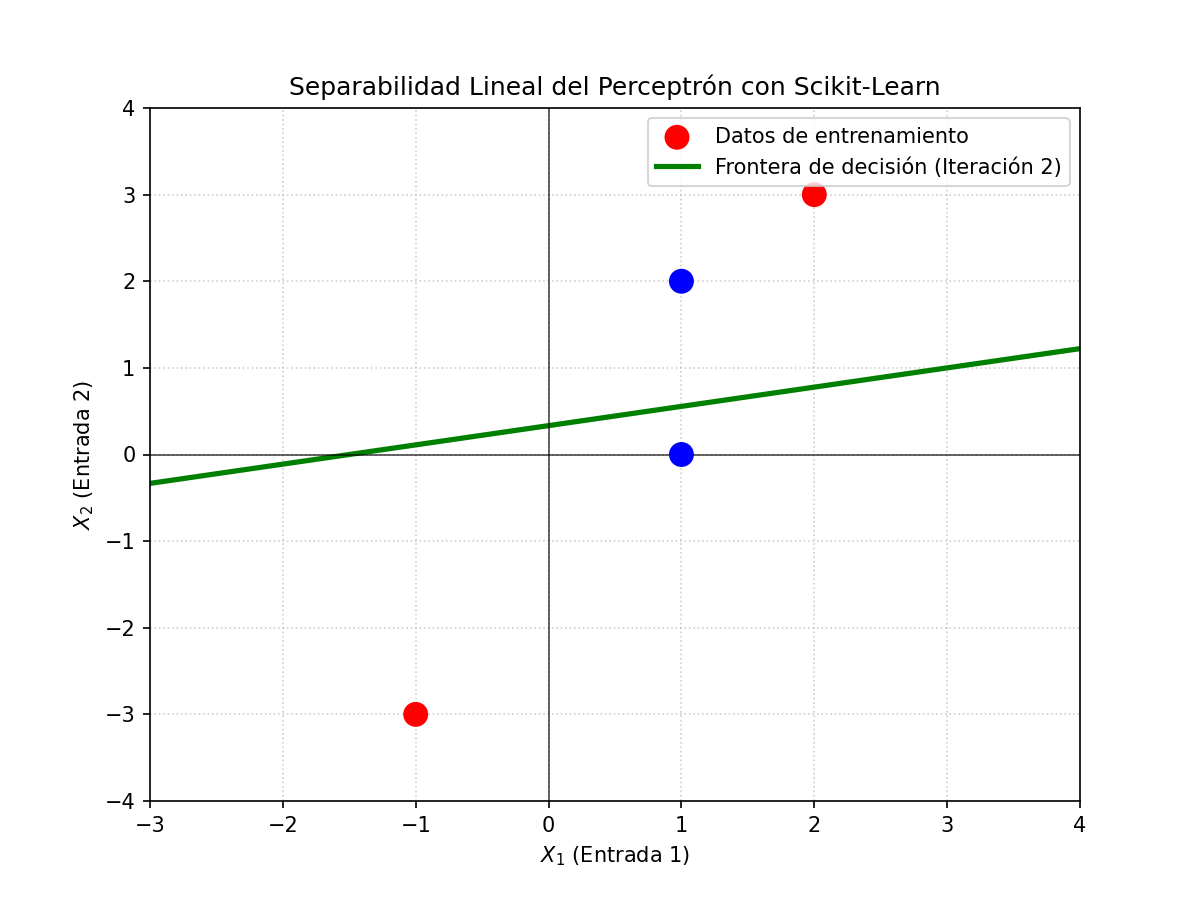
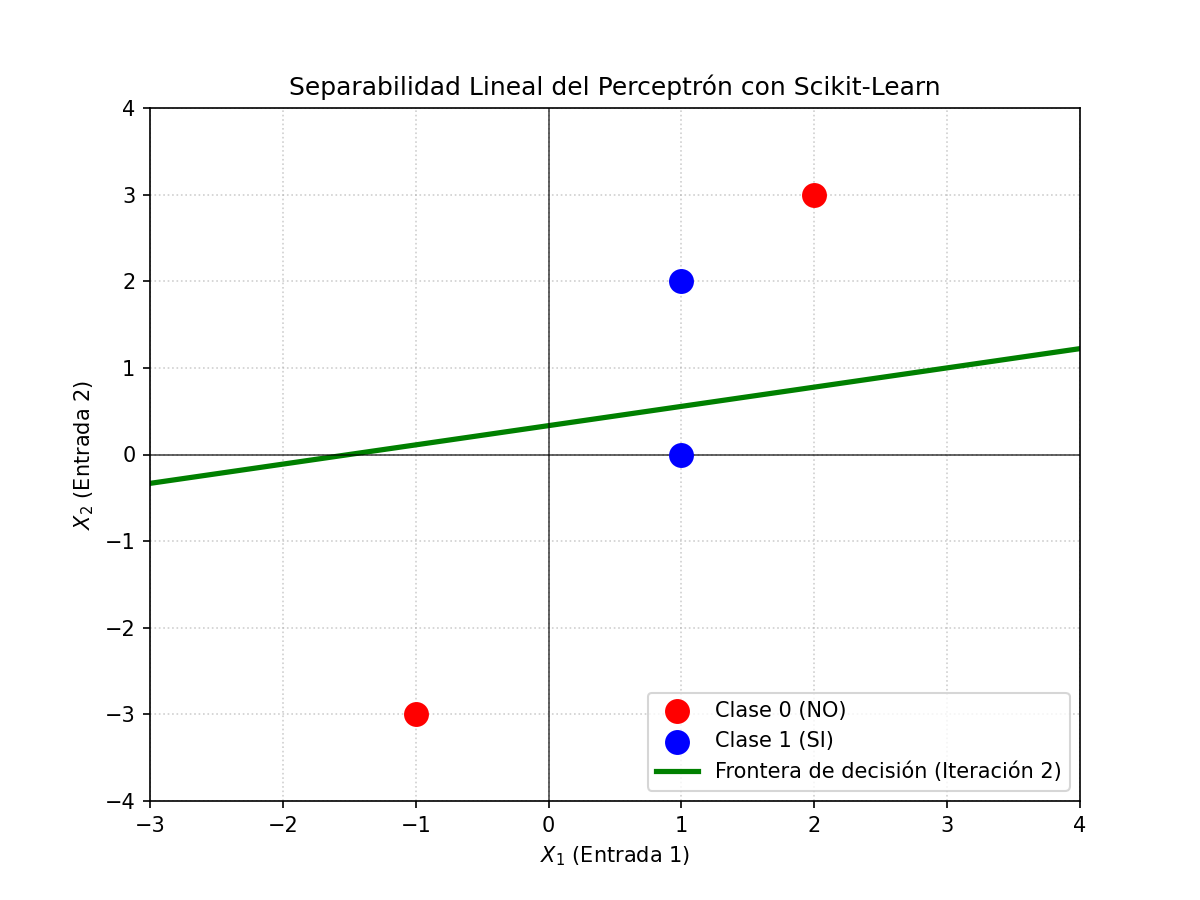
no supervisdao

Changed region(s): [[0.5242, 0.1244, 0.8942, 0.2178], [0.5242, 0.7778, 0.8942, 0.8711]]

diff --git a/Inteligencia Artifical/Segundo Proyecto/nosupervizado.py b/Inteligencia Artifical/Segundo Proyecto/nosupervizado.py
@@ -1,0 +1,133 @@
+import numpy as np
+import pandas as pd
+import matplotlib
+matplotlib.use('Agg')
+import matplotlib.pyplot as plt
+from sklearn.datasets import load_iris
+from sklearn.preprocessing import StandardScaler
+from sklearn.decomposition import PCA
+from sklearn.cluster import KMeans
+from sklearn.metrics import silhouette_score, adjusted_rand_score
+
+# --- FUNCIONES DEL PROCESO ---
+
+def cargar_y_describir_iris():
+    """Punto 11"""
+    iris = load_iris(as_frame=True)
+    X = iris.data
+    y = iris.target
+    
+    print("PUNTO 11: DESCRIPCIÓN DE VARIABLES ")
+    print(f"Cantidad de registros (filas): {X.shape[0]}")
+    print(f"Cantidad de variables (columnas): {X.shape[1]}")
+    print("Nombres de las variables:", list(X.columns))
+    print("-" * 50)
+    return X, y
+
+def estandarizar_datos(X):
+    """Punto 12"""
+    scaler = StandardScaler()
+    X_scaled = scaler.fit_transform(X)
+    # Convertimos de nuevo a DataFrame para mantener consistencia visual si fuera necesario
+    X_scaled_df = pd.DataFrame(X_scaled, columns=X.columns)
+    print("PUNTO 12: DATOS ESTANDARIZADOS")
+    print("Media de las variables transformadas (esperada ~0):\n", X_scaled_df.mean().round(2).values)
+    print("Desviación estándar (esperada ~1):\n", X_scaled_df.std().round(2).values)
+    print("-" * 50)
+    return X_scaled
+
+def aplicar_pca(X_scaled):
+    """Punto 13"""
+    # Instanciamos PCA fijando una semilla aleatoria por reproducibilidad
+    pca = PCA(n_components=2, random_state=42)
+    X_pca = pca.fit_transform(X_scaled)
+    
+    varianza_explicada = pca.explained_variance_ratio_
+    print(" PUNTO 13: ANÁLISIS DE PCA")
+    print(f"Varianza explicada por la Componente 1: {varianza_explicada[0]*100:.2f}%")
+    print(f"Varianza explicada por la Componente 2: {varianza_explicada[1]*100:.2f}%")
+    print(f"Varianza acumulada total: {np.sum(varianza_explicada)*100:.2f}%")
+    print("-" * 50)
+    return X_pca
+
+def analizar_kmeans_metodo_codo_y_silhouette(X_scaled):
+    """Puntos 14, 15 y 16"""
+    inercias = []
+    siluetas = []
+    valores_k = range(2, 8) # K entre 2 y 7 (el límite superior en range es exclusivo)
+    
+    print("=== PUNTOS 14, 15 Y 16: ENTRENAMIENTO KMEANS ===")
+    for k in valores_k:
+        # Usamos n_init='auto' por compatibilidad y fijamos random_state
+        kmeans = KMeans(n_clusters=k, n_init='auto', random_state=42)
+        kmeans.fit(X_scaled)
+        
+        #Inercia (Punto 15)
+        inercias.append(kmeans.inertia_)
+        
+        #Coeficiente de Silhouette (Punto 16)
+        score_silueta = silhouette_score(X_scaled, kmeans.labels_)
+        siluetas.append(score_silueta)
+        
+        print(f"Para K = {k} -> Inercia: {kmeans.inertia_:.2f} | Coeficiente Silhouette: {score_silueta:.4f}")
+    print("-" * 50)
+    
+    # --- GRÁFICO 1: MÉTODO DEL CODO (INERCIA) ---
+    fig, ax1 = plt.subplots(figsize=(8, 5))
+    ax1.plot(valores_k, inercias, marker='o', color='tab:blue', linewidth=2, label='Inercia')
+    ax1.set_xlabel('Número de Clusters (K)', fontsize=12)
+    ax1.set_ylabel('Inercia (Suma de errores cuadrados)', color='tab:blue', fontsize=12)
+    ax1.tick_params(axis='y', labelcolor='tab:blue')
+    ax1.set_title('Evaluacion de Metricas Internas para KMeans', fontsize=14, fontweight='bold')
+    
+    # --- GRÁFICO 2: COEFIENTE DE SILHOUETTE (EJE DOBLE) ---
+    ax2 = ax1.twinx()  # Comparten el mismo eje X
+    ax2.plot(valores_k, siluetas, marker='s', color='tab:orange', linewidth=2, linestyle='--', label='Silhouette')
+    ax2.set_ylabel('Coeficiente de Silhouette', color='tab:orange', fontsize=12)
+    ax2.tick_params(axis='y', labelcolor='tab:orange')
+    
+    plt.tight_layout()
+    plt.savefig('analisis_metricas_internas.png', dpi=300)
+    plt.close()
+
+def visualizar_clusters_y_clases_reales(X_pca, X_scaled, y_real):
+    """Punto 17"""
+    # Elegimos K=3 basándonos en la morfología biológica del dataset y los análisis métricos
+    k_elegido = 3
+    kmeans_final = KMeans(n_clusters=k_elegido, n_init='auto', random_state=42)
+    clusters_predichos = kmeans_final.fit(X_scaled)
+    labels_pred = clusters_predichos.labels_
+    
+    fig, (ax1, ax2) = plt.subplots(1, 2, figsize=(14, 6))
+    
+    # Gráfico Izquierdo: Clusters identificados por KMeans (No Supervisado)
+    scatter1 = ax1.scatter(X_pca[:, 0], X_pca[:, 1], c=labels_pred, cmap='viridis', s=60, alpha=0.8)
+    ax1.set_title(f'Agrupamiento No Supervisado (KMeans K={k_elegido})', fontsize=12, fontweight='bold')
+    ax1.set_xlabel('Componente Principal 1')
+    ax1.set_ylabel('Componente Principal 2')
+    ax1.grid(True, linestyle='--', alpha=0.5)
+    
+    # Gráfico Derecho: Especies Reales del dataset Iris (Supervisado - Solo para comparar)
+    scatter2 = ax2.scatter(X_pca[:, 0], X_pca[:, 1], c=y_real, cmap='plasma', s=60, alpha=0.8)
+    ax2.set_title('Clases Reales (Especies del Dataset Iris)', fontsize=12, fontweight='bold')
+    ax2.set_xlabel('Componente Principal 1')
+    ax2.set_ylabel('Componente Principal 2')
+    ax2.grid(True, linestyle='--', alpha=0.5)
+    
+    # Calcular e imprimir una métrica externa de control para la explicación teórica
+    ari = adjusted_rand_score(y_real, labels_pred)
+    print(f"PUNTO 17: ANÁLISIS DE COMPARACIÓN ")
+    print(f"Métrica Externa - Adjusted Rand Index (ARI): {ari:.4f}")
+    print("-" * 50)
+    
+    plt.tight_layout()
+    plt.savefig('visualizacion_clusters_pca.png', dpi=300)
+    plt.close()
+
+# --- EJECUCIÓN DEL FLUJO NO SUPERVISADO ---
+if __name__ == "__main__":
+    X_iris, y_iris = cargar_y_describir_iris()
+    X_estandarizado = estandarizar_datos(X_iris)
+    X_plano_pca = aplicar_pca(X_estandarizado)
+    analizar_kmeans_metodo_codo_y_silhouette(X_estandarizado)
+    visualizar_clusters_y_clases_reales(X_plano_pca, X_estandarizado, y_iris)

diff --git a/Inteligencia Artifical/Practico 5/preceptron.py b/Inteligencia Artifical/Practico 5/preceptron.py
@@ -31,7 +31,9 @@ plt.figure(figsize=(8, 6))
 
 
 colores = ['blue' if i == 1 else 'red' for i in d]
-plt.scatter(x[:, 0], x[:, 1], color=colores, s=120, zorder=5, label="Datos de entrenamiento")
+# Graficamos los puntos divididos por clases para corregir la leyenda
+plt.scatter(x[d==0, 0], x[d==0, 1], color='red', s=120, zorder=5, label="Clase 0 (NO)")
+plt.scatter(x[d==1, 0], x[d==1, 1], color='blue', s=120, zorder=5, label="Clase 1 (SI)")
 
 plt.plot(x1_linea, x2_linea, color='green', linestyle='-', linewidth=2.5, label="Frontera de decisión (Iteración 2)")
 plt.axhline(0, color='black', linewidth=0.8, alpha=0.7)
@@ -42,6 +44,6 @@ plt.ylim(-4, 4)
 plt.xlabel('$X_1$ (Entrada 1)')
 plt.ylabel('$X_2$ (Entrada 2)')
 plt.title('Separabilidad Lineal del Perceptrón con Scikit-Learn')
-plt.legend(loc='upper right')
+plt.legend(loc='lower right')
 plt.savefig("recta_separacion.png", dpi=150)
 plt.close()
